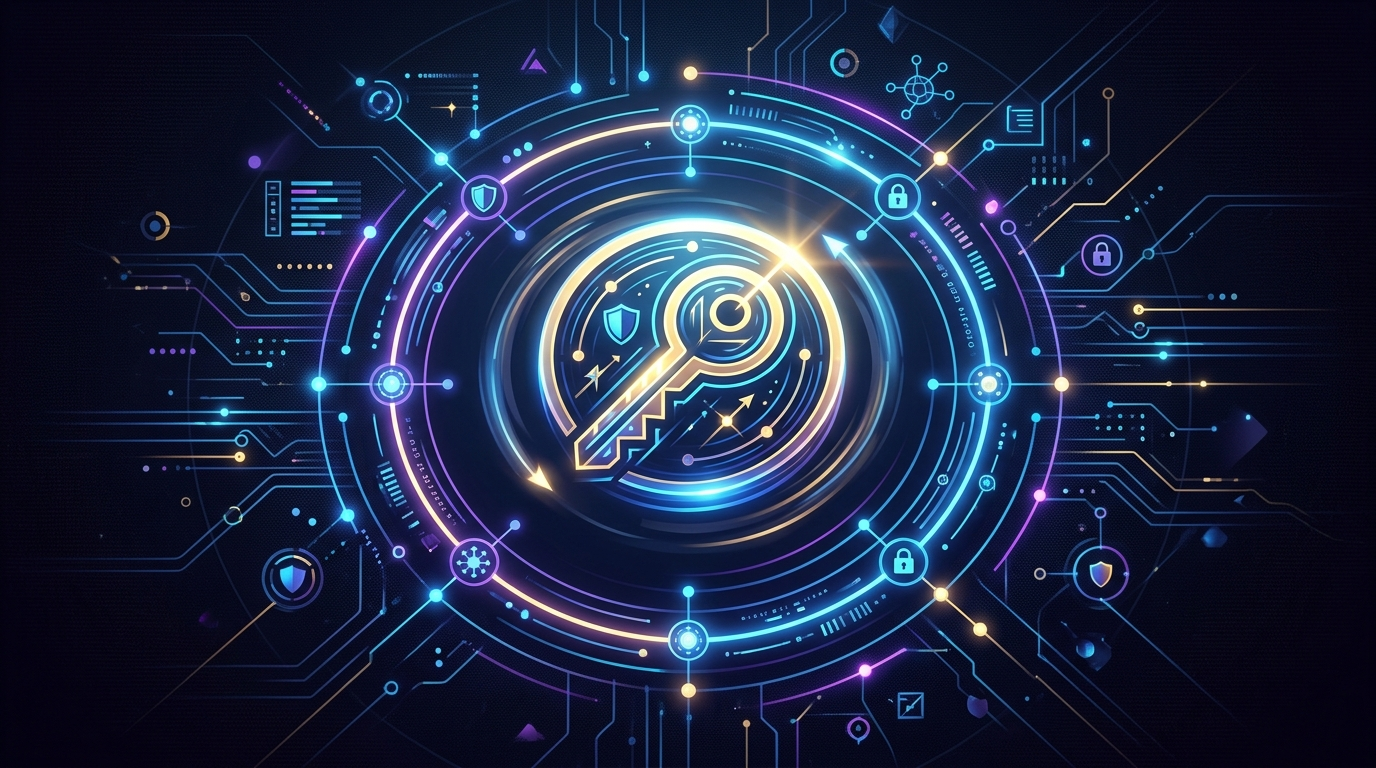
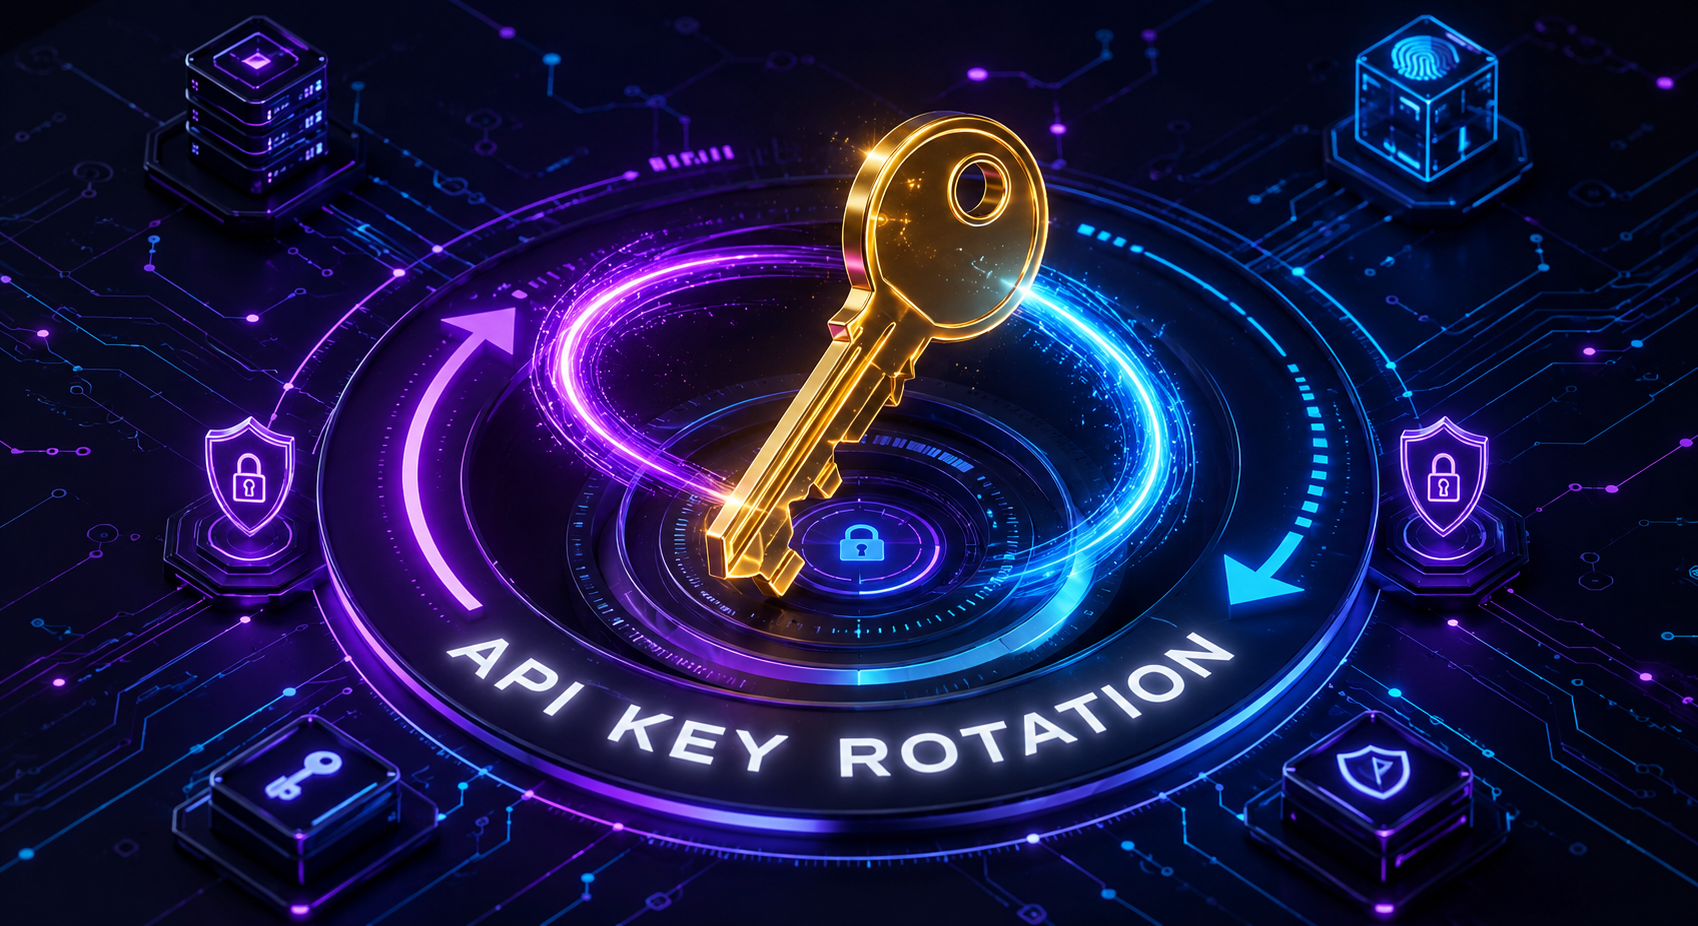
chore(ui): rename title, rephrase zero downtime, and update cover image

diff --git a/apps/ui/src/content/blog/2026-06-18-api-key-rotation.md b/apps/ui/src/content/blog/2026-06-18-api-key-rotation.md
@@ -2,8 +2,8 @@
 id: blog-api-key-rotation
 slug: api-key-rotation
 date: 2026-06-18
-title: "Zero-Downtime API Key Rotation: The Secure LLM Guide"
-summary: "Rotating API keys shouldn't cause downtime for production AI. Learn how LLM Gateway enables zero-downtime key rotation for both providers and the gateway."
+title: "API Key Rotation - How we secure your api keys"
+summary: "Rotating API keys shouldn't cause service interruption for production AI. Learn how LLM Gateway enables secure key rotation for both providers and the gateway."
 categories: ["Guides", "Engineering"]
 image:
   src: "/blog/api-key-rotation.png"
@@ -18,16 +18,16 @@ But in most traditional setups, rotating API keys is a stressful event. It usual
 
 When your application integrates directly with multiple LLM providers (OpenAI, Anthropic, Gemini, etc.), this operational complexity is multiplied by the number of providers you use.
 
-Here is how **LLM Gateway** simplifies API key rotation into a painless, zero-downtime process—both for your backend LLM provider credentials and the keys your applications use to call the gateway.
+Here is how **LLM Gateway** simplifies API key rotation into a painless, secure process—both for your backend LLM provider credentials and the keys your applications use to call the gateway.
 
 ---
 
 ## What is API Key Rotation?
-**API key rotation** is the security practice of systematically replacing authentication credentials (API keys) on a scheduled basis or in response to a suspected breach. In LLM applications, key rotation ensures that access to underlying AI models remains secure without disrupting production services or or causing query downtime.
+**API key rotation** is the security practice of systematically replacing authentication credentials (API keys) on a scheduled basis or in response to a suspected breach. In AI applications, key rotation ensures that access to underlying AI models remains secure without disrupting production services or causing query interruptions.
 
 ---
 
-## Why API Key Rotation Matters for LLM Apps
+## Why API Key Rotation Matters for AI Apps
 
 According to the [GitGuardian State of Secrets Sprawl Report](https://www.gitguardian.com/state-of-secrets-sprawl), credentials leaked in public repositories increased by 112% year-over-year, with AI provider keys (like OpenAI and Anthropic) becoming high-value targets for attackers looking to siphon credits or scrape training data.
 
@@ -44,7 +44,7 @@ Furthermore, compliance standards like SOC 2 and ISO 27001 mandate periodic cred
 | :--- | :--- | :--- |
 | **Provider Keys** | Requires code redeployments in every microservice. | Single-click dashboard update; zero code changes. |
 | **Gateway Keys** | Not applicable (no gateway layer). | Double-key roll with concurrent active keys. |
-| **Downtime Risk** | High (timing mismatch during propagation). | Zero (both keys active during transition). |
+| **Downtime Risk** | High (timing mismatch during propagation). | None (both keys active during transition). |
 | **Automation** | Complex custom scripting. | Native TTL (Time-to-Live) expiration. |
 
 ---
@@ -78,7 +78,7 @@ The gateway immediately begins using the new credential for all subsequent reque
 
 ## 2. Rotating Gateway Keys: The "Double-Key Roll" Pattern
 
-If you need to rotate the API key your application uses to connect to LLM Gateway (e.g. `llmgtwy_...`), you cannot avoid updating your application configuration. However, you *can* avoid downtime.
+If you need to rotate the API key your application uses to connect to LLM Gateway (e.g. `llmgtwy_...`), you cannot avoid updating your application configuration. However, you *can* avoid service interruption.
 
 LLM Gateway supports **multiple concurrent active keys** per project. This enables a seamless transition path known as the "Double-Key Roll" pattern.
 
@@ -86,7 +86,7 @@ LLM Gateway supports **multiple concurrent active keys** per project. This enabl
 1. Generate New Key (Both old and new keys active)
 2. Deploy Config Update (Traffic begins shifting to new key)
 3. Monitor Logs (Verify 100% of traffic is on new key)
-4. Deactivate & Delete Old Key (Zero downtime transition complete)
+4. Deactivate & Delete Old Key (Secure transition complete)
 ```
 
 ### Step 1: Create a new API Key
@@ -129,23 +129,11 @@ This is highly recommended for:
 
 If an expired key needs to be reactivated, you can do so in the UI by explicitly setting a new expiration date.
 
----
 
-## How This Compares to OpenRouter
 
-If your team has evaluated [OpenRouter](https://openrouter.ai/) for multi-model routing or API key aggregation, you might wonder how its security architecture handles key management and rotation.
+## Best Practices for Secure AI Key Management
 
-While OpenRouter supports creating multiple API keys and provides a Management API to programmatically generate and revoke keys (which is useful for automating rotation via third-party secret managers like Infisical), there are key differences in security depth and deployment flexibility:
-
-1. **Self-Hosting vs. Cloud-Only Storage:** OpenRouter is a proprietary, cloud-only service. This means your rotated API keys (including any provider credentials you add via OpenRouter BYOK) must be stored in their database. For teams in highly regulated industries or with strict data residency constraints, this third-party exposure is a risk. LLM Gateway is open-source (AGPLv3) and self-hostable, allowing you to keep all rotated credentials in your own private cloud or Docker environment.
-2. **Native Expiration (TTL):** OpenRouter keys remain valid indefinitely until manually deleted or revoked via API scripts. LLM Gateway includes native, built-in TTL (Time-to-Live) settings, allowing you to generate keys that automatically deactivate after a set duration.
-3. **Bring Your Own Keys (BYOK) Costs:** While both platforms allow you to route requests through your own provider credentials (BYOK), LLM Gateway offers BYOK with 0% platform markup, making the transition to secure, key-managed infrastructure cost-free.
-
----
-
-## Best Practices for Secure LLM Key Management
-
-To keep your LLM infrastructure secure, follow these principles:
+To keep your AI infrastructure secure, follow these principles:
 
 1. **Use Project-Specific Keys:** Never use a single API key for both development and production. Create separate projects in LLM Gateway and assign dedicated keys to each environment.
 2. **Apply IAM Rules:** Narrow the scope of your keys. If a service only needs to run translation tasks using `gemini-2.5-flash`, configure an IAM rule on that key denying access to all other models. If the key is leaked, the exposure is limited.
